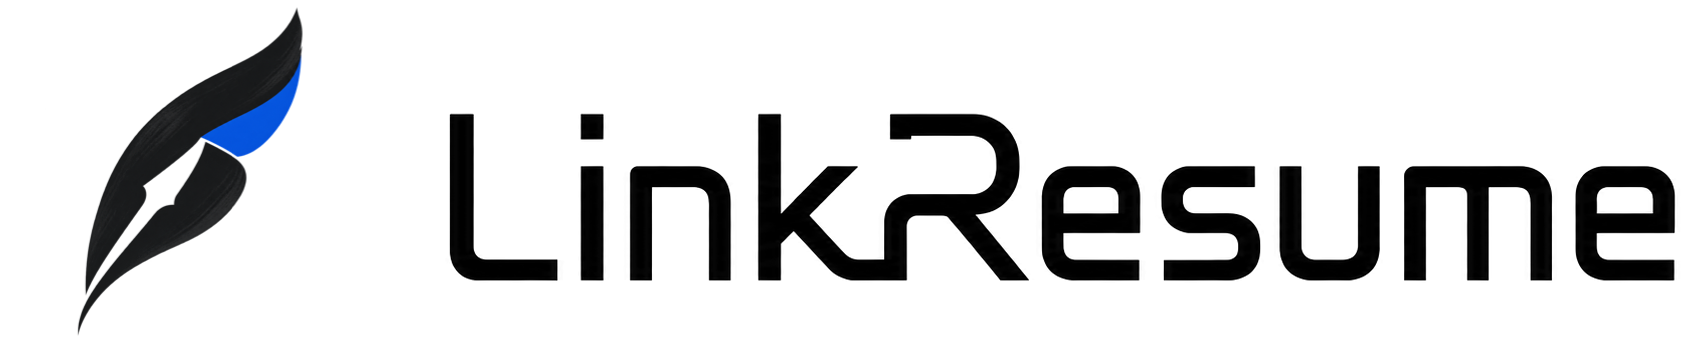
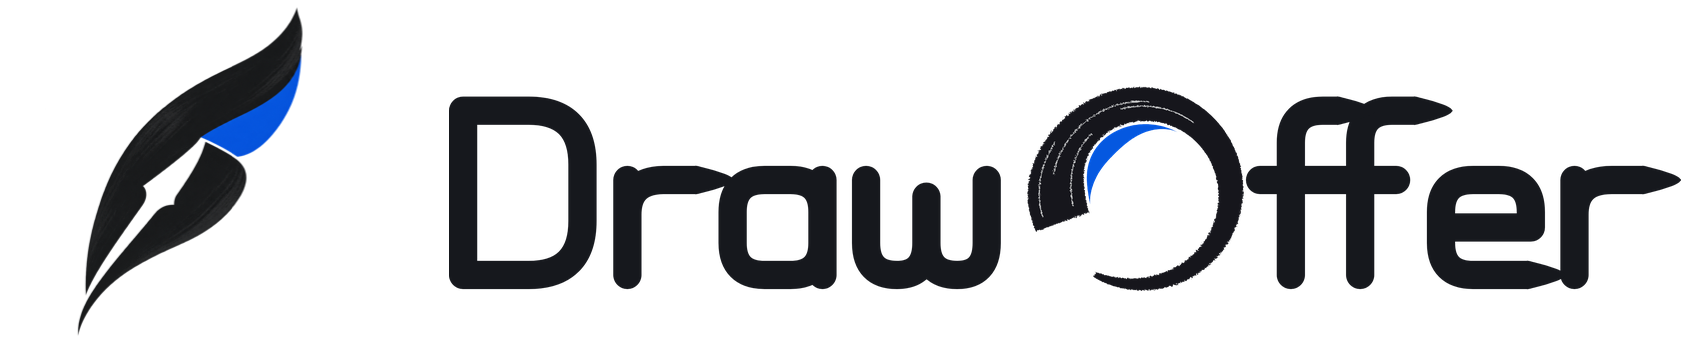
chore(release): 晋级 Dev 完整更新至 v0.1.6
来源：origin/dev ef339c650d87d5565270cf507d553f16712765da；基线：origin/master aff1b4a59f12454b07fd859eeab663f104d3154c。完整发布 Dev 净差异，不添加额外代码改动。

Changed region(s): [[0.2493, 0.2292, 0.9971, 0.8309]]

diff --git a/apps/desktop/src/config.ts b/apps/desktop/src/config.ts
@@ -19,9 +19,9 @@ export interface DesktopTarget {
 }
 
 export interface DesktopEnv {
-  LINKRESUME_DESKTOP_ENV?: string;
-  LINKRESUME_DESKTOP_ORIGIN?: string;
-  LINKRESUME_DESKTOP_DEV_URL?: string;
+  DRAWOFFER_DESKTOP_ENV?: string;
+  DRAWOFFER_DESKTOP_ORIGIN?: string;
+  DRAWOFFER_DESKTOP_DEV_URL?: string;
 }
 
 /** 打包时由构建脚本写入 dist/built-in-env.json 的目标环境。 */
@@ -108,25 +108,25 @@ export function resolveDesktopTarget(
   const warnings: string[] = [];
   if (mode === "dev") {
     const devUrl =
-      normalizeHttpOrigin(env.LINKRESUME_DESKTOP_DEV_URL, "LINKRESUME_DESKTOP_DEV_URL", warnings, false) ??
+      normalizeHttpOrigin(env.DRAWOFFER_DESKTOP_DEV_URL, "DRAWOFFER_DESKTOP_DEV_URL", warnings, false) ??
       DEFAULT_DEV_URL;
     return { mode, preset: "development", loadUrl: devUrl, origin: devUrl, warnings };
   }
 
   let preset: DesktopPreset = "production";
-  const requested = env.LINKRESUME_DESKTOP_ENV ?? builtIn?.env;
+  const requested = env.DRAWOFFER_DESKTOP_ENV ?? builtIn?.env;
   if (requested === "development" || requested === "production") {
     preset = requested;
   } else if (requested !== undefined) {
-    warnings.push(`LINKRESUME_DESKTOP_ENV 仅支持 development/production，已按 production 处理：${requested}`);
+    warnings.push(`DRAWOFFER_DESKTOP_ENV 仅支持 development/production，已按 production 处理：${requested}`);
   }
 
   const defaultOrigin =
     preset === "development" ? DEFAULT_DEVELOPMENT_ORIGIN : DEFAULT_PRODUCTION_ORIGIN;
   const origin =
     normalizeHttpOrigin(
-      env.LINKRESUME_DESKTOP_ORIGIN ?? builtIn?.origin,
-      "LINKRESUME_DESKTOP_ORIGIN",
+      env.DRAWOFFER_DESKTOP_ORIGIN ?? builtIn?.origin,
+      "DRAWOFFER_DESKTOP_ORIGIN",
       warnings,
       preset === "development",
     ) ?? defaultOrigin;

diff --git a/apps/mac/Sources/LinkResumeApp/LinkResumeApp.swift b/apps/mac/Sources/LinkResumeApp/LinkResumeApp.swift
@@ -13,19 +13,19 @@ struct LinkResumeApp: App {
     init() {
         var instanceLease: DesktopInstanceLease?
         do {
-            guard let value = ProcessInfo.processInfo.environment["LINKRESUME_API_ORIGIN"],
+            guard let value = ProcessInfo.processInfo.environment["DRAWOFFER_API_ORIGIN"],
                   let origin = URL(string: value) else { throw APIError.invalidResponse }
             let directory = try FileManager.default.url(for: .applicationSupportDirectory,
                 in: .userDomainMask, appropriateFor: nil, create: true).appendingPathComponent("LinkResume")
             try FileManager.default.createDirectory(at: directory, withIntermediateDirectories: true)
             instanceLease = try DesktopInstanceLease(fileURL: directory.appendingPathComponent("desktop-session.lock"))
             let api = try HTTPAPIClient(baseURL: origin, tokens: KeychainTokenStore(),
-                allowLocalHTTP: ProcessInfo.processInfo.environment["LINKRESUME_ALLOW_LOCAL_HTTP"] == "1")
+                allowLocalHTTP: ProcessInfo.processInfo.environment["DRAWOFFER_ALLOW_LOCAL_HTTP"] == "1")
             _session = State(initialValue: SessionStore(api: api))
         } catch APIError.server(status: 409, code: "DESKTOP_ALREADY_RUNNING") {
             _configurationError = State(initialValue: "LinkResume 已在运行，请使用已打开的窗口。")
         } catch {
-            _configurationError = State(initialValue: "API 地址未配置或无效。请设置 LINKRESUME_API_ORIGIN 后重新启动。")
+            _configurationError = State(initialValue: "API 地址未配置或无效。请设置 DRAWOFFER_API_ORIGIN 后重新启动。")
         }
         lease = instanceLease
     }

diff --git a/apps/mac/Sources/LinkResumeApp/Features/MockInterviewView.swift b/apps/mac/Sources/LinkResumeApp/Features/MockInterviewView.swift
@@ -1312,11 +1312,11 @@ struct MockInterviewView: View {
                     ForEach(evaluation["signals"]?.items ?? [], id: \.self) { signal in
                         HStack(alignment: .top, spacing: 8) {
                             let verdict = signal.text("verdict")
-                            Text(["hit": "命中", "partial": "部分", "miss": "未命中"][verdict] ?? verdict).font(V3.sans(11)).foregroundStyle(verdict == "hit" ? Color(hex: 0x2F7D4A) : verdict == "partial" ? Color(hex: 0xB8691C) : Color(hex: 0xB3402E))
+                            Text(["hit": "命中", "partial": "部分", "miss": "未命中", "not_probed": "未考察"][verdict] ?? verdict).font(V3.sans(11)).foregroundStyle(verdict == "hit" ? Color(hex: 0x2F7D4A) : verdict == "partial" ? Color(hex: 0xB8691C) : verdict == "not_probed" ? V3.fnt : Color(hex: 0xB3402E))
                                 .padding(.horizontal, 7).frame(height: 17).background(V3.stage, in: RoundedRectangle(cornerRadius: 5))
                             VStack(alignment: .leading, spacing: 3) {
                                 Text(signal.text("signal")).font(V3.sans(12.5, weight: .medium))
-                                Text(signal.text("evidence").isEmpty ? "回答中未涉及" : "“\(signal.text("evidence"))”").font(V3.sans(11.5)).foregroundStyle(V3.fnt)
+                                Text(verdict == "not_probed" ? "面试官没有问到，不计分" : signal.text("evidence").isEmpty ? "回答中未涉及" : "“\(signal.text("evidence"))”").font(V3.sans(11.5)).foregroundStyle(V3.fnt)
                             }
                         }
                     }

diff --git a/apps/mac/Sources/LinkResumeApp/Features/ResumesView.swift b/apps/mac/Sources/LinkResumeApp/Features/ResumesView.swift
@@ -246,8 +246,9 @@ struct ResumesView: View {
         defer { if owner == account { importing = false } }
         do {
             let templates = (try? await session.api.listResumeTemplates()) ?? []
-            // Web 导入默认使用生产保留的 classic-technical-cn 版式，不可用时回退到第一套可选模板
-            let template = templates.first { $0.key == "classic-technical-cn" } ?? templates.first
+            // 导入默认模板由管理端顺序决定：接口已按 sort_order、id 升序返回启用且有效的模板，
+            // 首项即管理端标记「导入默认模板」的那一套，与 Web 使用同一条规则。
+            let template = templates.first
             let upload = try ResumeImportUpload(file: file, templateID: template?.id)
             _ = try await session.api.importResume(upload)
             guard owner == account else { return }

diff --git a/apps/desktop/src/main.ts b/apps/desktop/src/main.ts
@@ -19,7 +19,7 @@ function readBuiltInEnv(): BuiltInDesktopEnv | null {
 }
 
 const target = resolveDesktopTarget(
-  process.env.LINKRESUME_DESKTOP_MODE === "dev" ? "dev" : "package",
+  process.env.DRAWOFFER_DESKTOP_MODE === "dev" ? "dev" : "package",
   process.env,
   readBuiltInEnv(),
 );

diff --git a/apps/windows/src/LinkResume.App/Views/MockInterviewPage.cs b/apps/windows/src/LinkResume.App/Views/MockInterviewPage.cs
@@ -85,7 +85,7 @@ public sealed class MockInterviewPage : Page {
         if(item.Status=="preparation_failed")_page.Children.Add(B("放弃本场",()=>_=Confirm("abandon")));
         if(!item.Active){var repeat=B("再练一次",()=>_=Command("repeat"),true);repeat.IsEnabled=!_busy&&item.Text("answer_mode")!="voice"&&!_createUnknown;_page.Children.Add(Row(repeat,B("删除记录",()=>_=Confirm("delete"))));}}
     void Report(MockInterview item){var report=item.Raw["report"];if(report is null){_page.Children.Add(T("报告暂不可用，请刷新重试。"));return;}_page.Children.Add(Card(Stack(T(N(report,"total_score").ToString("F1")+" 分",48),T(S(report,"headline"),18),T(S(report,"summary")),T($"逐题平均 {N(report,"question_average"):F1} · 维度得分 {N(report,"dimension_score"):F1}",13,true),T(report["low_confidence"]?.GetValue<bool>()==true?"作答样本较少，报告置信度较低":"",12,true))));var dimensions=Stack(T("能力维度",17),Radar(Items(report["dimensions"]).ToList()));foreach(var dimension in Items(report["dimensions"]))dimensions.Children.Add(Stack(Row(T(MockInterview.Dimensions.GetValueOrDefault(S(dimension,"key"),S(dimension,"key"))),new ProgressBar{Value=N(dimension,"score"),Maximum=5,Width=160},T(N(dimension,"score").ToString("F1"))),T(S(dimension,"comment"),12,true),T("依据："+string.Join("；",Items(dimension["evidence"]).Select(x=>x.GetValue<string>())),12,true)));_page.Children.Add(Card(dimensions));
-        foreach(var evaluation in Items(report["questions"])){var content=Stack();var main=Items(item.Questions).FirstOrDefault(q=>S(q,"kind")=="main"&&N(q,"sequence_no")==N(evaluation,"sequence_no"));foreach(var q in Items(item.Questions).Where(q=>main is not null&&N(q,"plan_index")==N(main,"plan_index")))content.Children.Add(Stack(T("问："+S(q,"content")),T("答："+(S(q,"answer_status")=="skipped"?"已跳过":S(q,"answer_text")),13,true)));foreach(var signal in Items(evaluation["signals"]))content.Children.Add(T(S(signal,"signal")+" · "+new Dictionary<string,string>{{"hit","命中"},{"partial","部分命中"},{"miss","未命中"}}.GetValueOrDefault(S(signal,"verdict"),S(signal,"verdict"))+" · "+S(signal,"evidence"),12,true));content.Children.Add(T("参考回答："+S(evaluation,"reference_answer")));Strings(content,evaluation["highlights"],"亮点");Strings(content,evaluation["weaknesses"],"待加强");Strings(content,evaluation["factual_errors"],"事实问题");_page.Children.Add(new Expander{Header=$"{S(evaluation,"topic")} · {N(evaluation,"score"):F0} 分",Content=content,HorizontalAlignment=HorizontalAlignment.Stretch});}
+        foreach(var evaluation in Items(report["questions"])){var content=Stack();var main=Items(item.Questions).FirstOrDefault(q=>S(q,"kind")=="main"&&N(q,"sequence_no")==N(evaluation,"sequence_no"));foreach(var q in Items(item.Questions).Where(q=>main is not null&&N(q,"plan_index")==N(main,"plan_index")))content.Children.Add(Stack(T("问："+S(q,"content")),T("答："+(S(q,"answer_status")=="skipped"?"已跳过":S(q,"answer_text")),13,true)));foreach(var signal in Items(evaluation["signals"]))content.Children.Add(T(S(signal,"signal")+" · "+new Dictionary<string,string>{{"hit","命中"},{"partial","部分命中"},{"miss","未命中"},{"not_probed","未考察"}}.GetValueOrDefault(S(signal,"verdict"),S(signal,"verdict"))+" · "+S(signal,"evidence"),12,true));content.Children.Add(T("参考回答："+S(evaluation,"reference_answer")));Strings(content,evaluation["highlights"],"亮点");Strings(content,evaluation["weaknesses"],"待加强");Strings(content,evaluation["factual_errors"],"事实问题");_page.Children.Add(new Expander{Header=$"{S(evaluation,"topic")} · {N(evaluation,"score"):F0} 分",Content=content,HorizontalAlignment=HorizontalAlignment.Stretch});}
         var facts=Stack(T("参考资料事实核验",17),T(new Dictionary<string,string>{{"not_requested","未选择参考资料"},{"completed","核验已完成"},{"failed","资料核验失败，其他评分仍可查看"}}.GetValueOrDefault(S(report["fact_check"],"status"),"")));foreach(var fact in Items(report["fact_check"]?["items"]))facts.Children.Add(Stack(T(S(fact,"claim")+" · "+new Dictionary<string,string>{{"consistent","有资料支持"},{"conflict","与资料矛盾"},{"not_found","未找到依据"},{"stronger_in_material","资料表述更强"}}.GetValueOrDefault(S(fact,"verdict"),S(fact,"verdict"))),T(S(fact,"note"),12,true),T(S(fact["source"],"title")+"："+S(fact,"quote"),12,true)));Strings(facts,report["resume_risks"],"简历风险");Strings(facts,report["improvements"],"改进建议");_page.Children.Add(Card(facts));}
     static UIElement Radar(List<JsonNode> dimensions){
         var canvas=new Canvas{Width=170,Height=105};var count=dimensions.Count==0?5:Math.Max(3,dimensions.Count);

diff --git a/apps/windows/src/LinkResume.App/App.xaml.cs b/apps/windows/src/LinkResume.App/App.xaml.cs
@@ -20,7 +20,7 @@ public partial class App : Application
     {
         try
         {
-            var origin = Environment.GetEnvironmentVariable("LINKRESUME_API_ORIGIN")
+            var origin = Environment.GetEnvironmentVariable("DRAWOFFER_API_ORIGIN")
                 ?? throw new InvalidOperationException("API origin missing");
             _instance = new Mutex(false, $"Local\\LinkResume.Desktop.{WindowsIdentity.GetCurrent().User?.Value}");
             var owned = false;
@@ -32,12 +32,12 @@ public partial class App : Application
                 return;
             }
             _transport = new DesktopTransport(new Uri(origin),
-                Environment.GetEnvironmentVariable("LINKRESUME_ALLOW_LOCAL_HTTP") == "1");
+                Environment.GetEnvironmentVariable("DRAWOFFER_ALLOW_LOCAL_HTTP") == "1");
             Session = new(new HttpApiClient(new SessionCoordinator(_transport, new CredentialLockerTokenStore())));
         }
         catch (Exception)
         {
-            ShowStartupError("API 地址未配置或无效。请设置 LINKRESUME_API_ORIGIN 后重新启动。");
+            ShowStartupError("API 地址未配置或无效。请设置 DRAWOFFER_API_ORIGIN 后重新启动。");
             return;
         }
         _window = new MainWindow();
